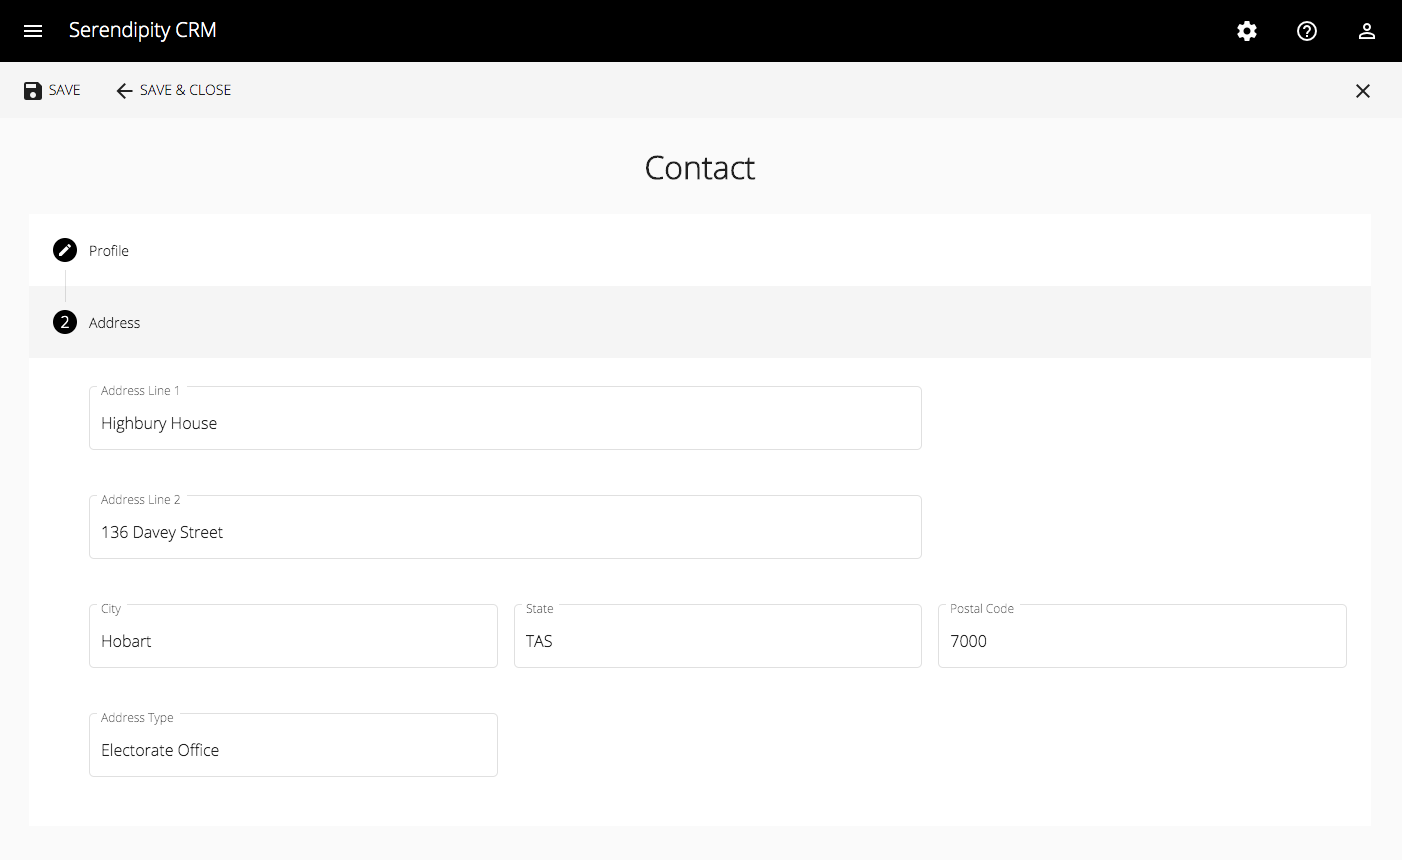
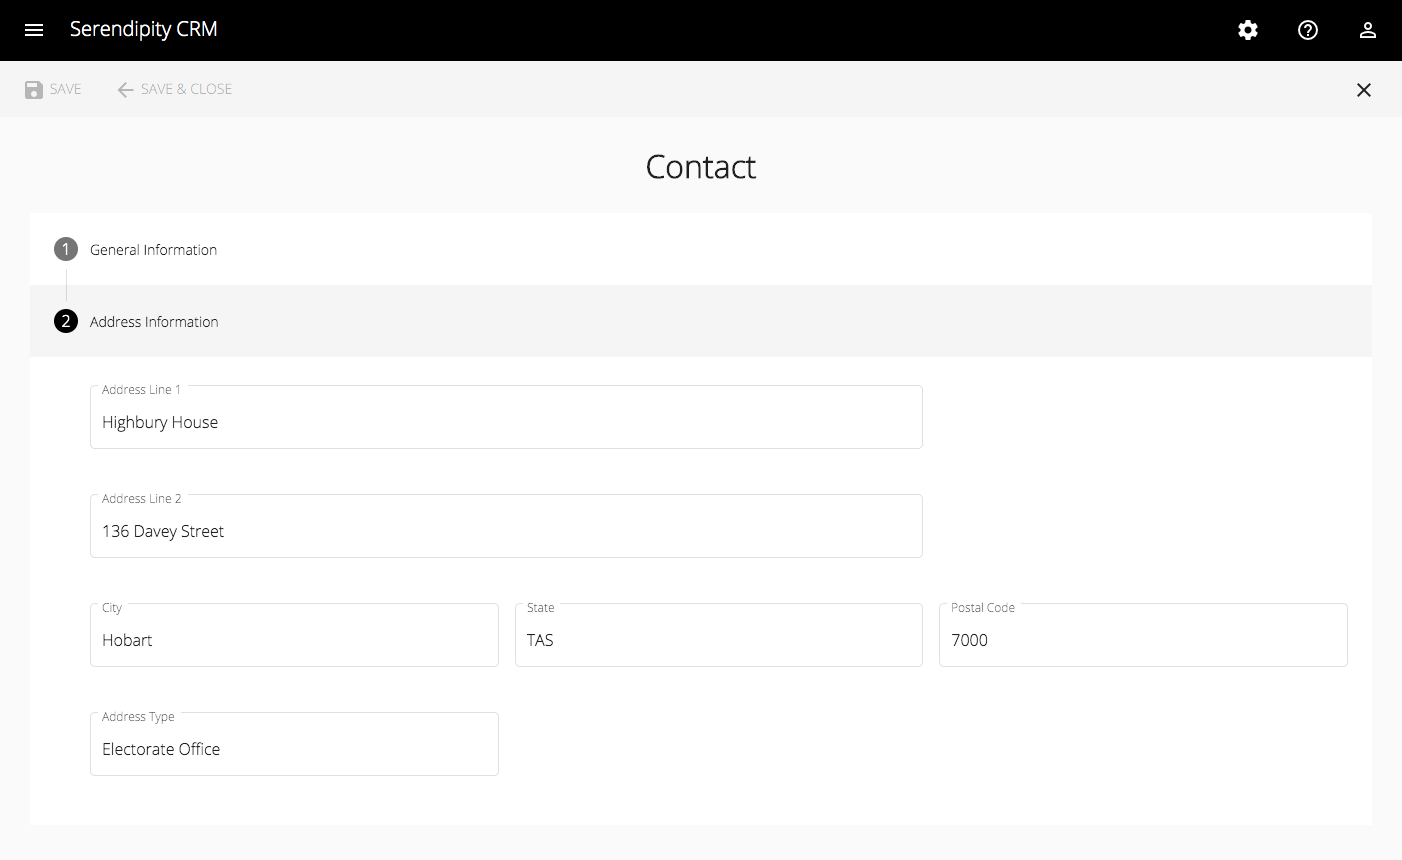
Created the Contact Wizard

diff --git a/src/environments/environment.prod.ts b/src/environments/environment.prod.ts
@@ -13,18 +13,18 @@ export const environment: Environment = {
   isDebugMode: false,
 
   firebase: {
-    apiKey: '',
-    authDomain: '',
-    databaseURL: '',
-    projectId: '',
-    storageBucket: '',
-    messagingSenderId: ''
+    apiKey: 'AIzaSyASxWQ8whc3CrA6EXYII07d_xa3q27RVDc',
+    authDomain: 'serendipity-f7626.firebaseapp.com',
+    databaseURL: 'https://serendipity-f7626.firebaseio.com',
+    projectId: 'serendipity-f7626',
+    storageBucket: 'serendipity-f7626.appspot.com',
+    messagingSenderId: '582668248299'
   },
 
   okta: {
-    clientId: '',
+    clientId: '0oatga8ebA4IkGg5U356',
     grantType: 'authorization_code',
-    issuer: '',
+    issuer: 'https://dev-335467.okta.com/oauth2/default',
     redirectUri: 'http://localhost:4200/authorization-code/callback',
     responseType: 'code',
     scope: ['openid', 'profile', 'email', 'phone', 'address', 'groups'],
@@ -34,12 +34,11 @@ export const environment: Environment = {
   },
 
   auth0: {
-    client_id: '',
-    domain: '',
+    client_id: 'vnq8n7pd6oyeqU07WSV93DEKxd8vRhcT',
+    domain: 'dev-1uv3ymem.au.auth0.com',
     redirect_uri: 'http://localhost:4200/authorization-code/callback',
     scope: 'openid profile email phone address'
   },
-
 
   storageUriPrefix: 'https://firebasestorage.googleapis.com/v0/b/',
 

diff --git a/src/environments/environment.ts b/src/environments/environment.ts
@@ -13,18 +13,18 @@ export const environment: Environment = {
   isDebugMode: true,
 
   firebase: {
-    apiKey: '',
-    authDomain: '',
-    databaseURL: '',
-    projectId: '',
-    storageBucket: '',
-    messagingSenderId: ''
+    apiKey: 'AIzaSyASxWQ8whc3CrA6EXYII07d_xa3q27RVDc',
+    authDomain: 'serendipity-f7626.firebaseapp.com',
+    databaseURL: 'https://serendipity-f7626.firebaseio.com',
+    projectId: 'serendipity-f7626',
+    storageBucket: 'serendipity-f7626.appspot.com',
+    messagingSenderId: '582668248299'
   },
 
   okta: {
-    clientId: '',
+    clientId: '0oatga8ebA4IkGg5U356',
     grantType: 'authorization_code',
-    issuer: '',
+    issuer: 'https://dev-335467.okta.com/oauth2/default',
     redirectUri: 'http://localhost:4200/authorization-code/callback',
     responseType: 'code',
     scope: ['openid', 'profile', 'email', 'phone', 'address', 'groups'],
@@ -34,8 +34,8 @@ export const environment: Environment = {
   },
 
   auth0: {
-    client_id: '',
-    domain: '',
+    client_id: 'vnq8n7pd6oyeqU07WSV93DEKxd8vRhcT',
+    domain: 'dev-1uv3ymem.au.auth0.com',
     redirect_uri: 'http://localhost:4200/authorization-code/callback',
     scope: 'openid profile email phone address'
   },

diff --git a/projects/sales/src/lib/components/contact-wizard/contact-wizard.component.html b/projects/sales/src/lib/components/contact-wizard/contact-wizard.component.html
@@ -43,7 +43,7 @@
       <mat-vertical-stepper linear="false">
 
         <mat-step [stepControl]="generalInformationGroup">
-          <ng-template matStepLabel>Profile</ng-template>
+          <ng-template matStepLabel>General Information</ng-template>
           <dynamic-form autocomplete="off"
                         [className]="'crm-nested-grid-container'"
                         [formGroup]="generalInformationGroup"
@@ -53,7 +53,7 @@
         </mat-step>
 
         <mat-step [stepControl]="generalInformationGroup">
-          <ng-template matStepLabel>Address</ng-template>
+          <ng-template matStepLabel>Address Information</ng-template>
           <dynamic-form autocomplete="off"
                         [className]="'crm-nested-grid-container'"
                         [formGroup]="addressInformationGroup"
